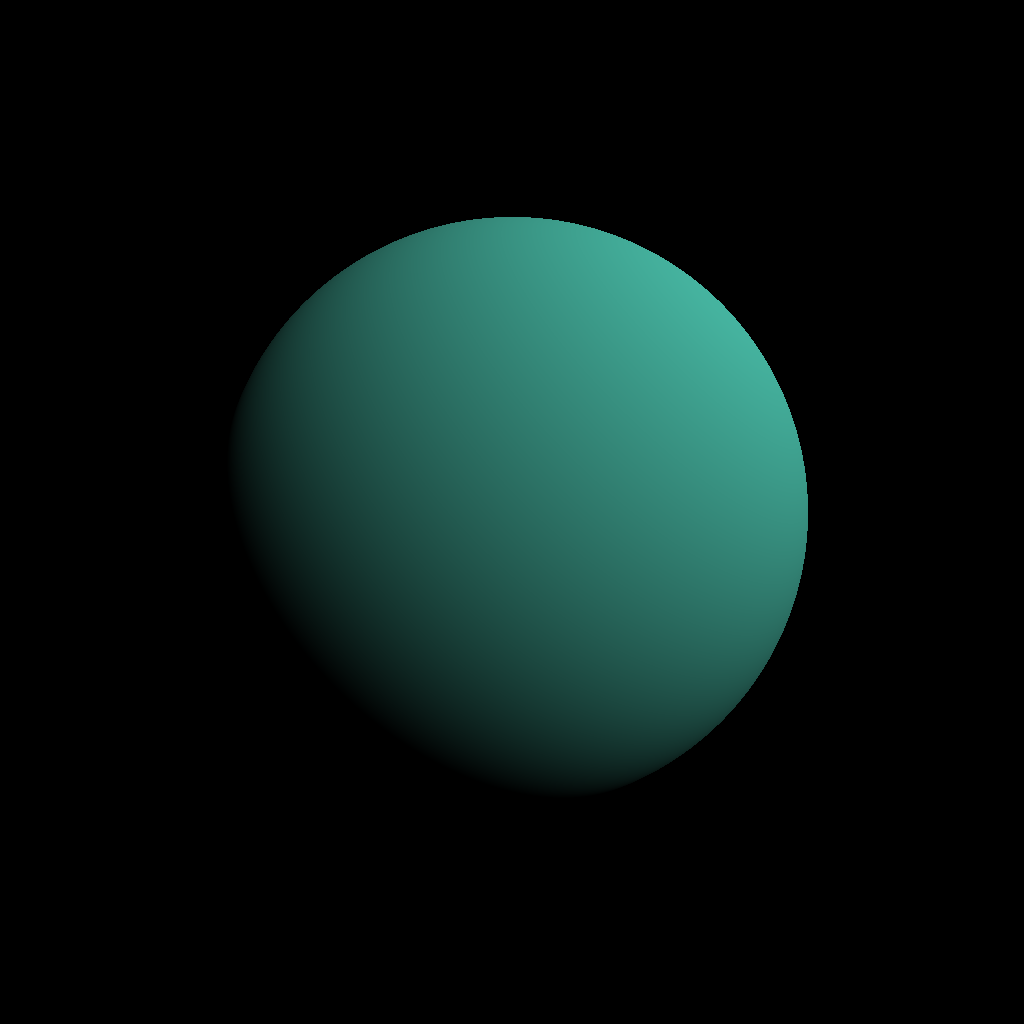
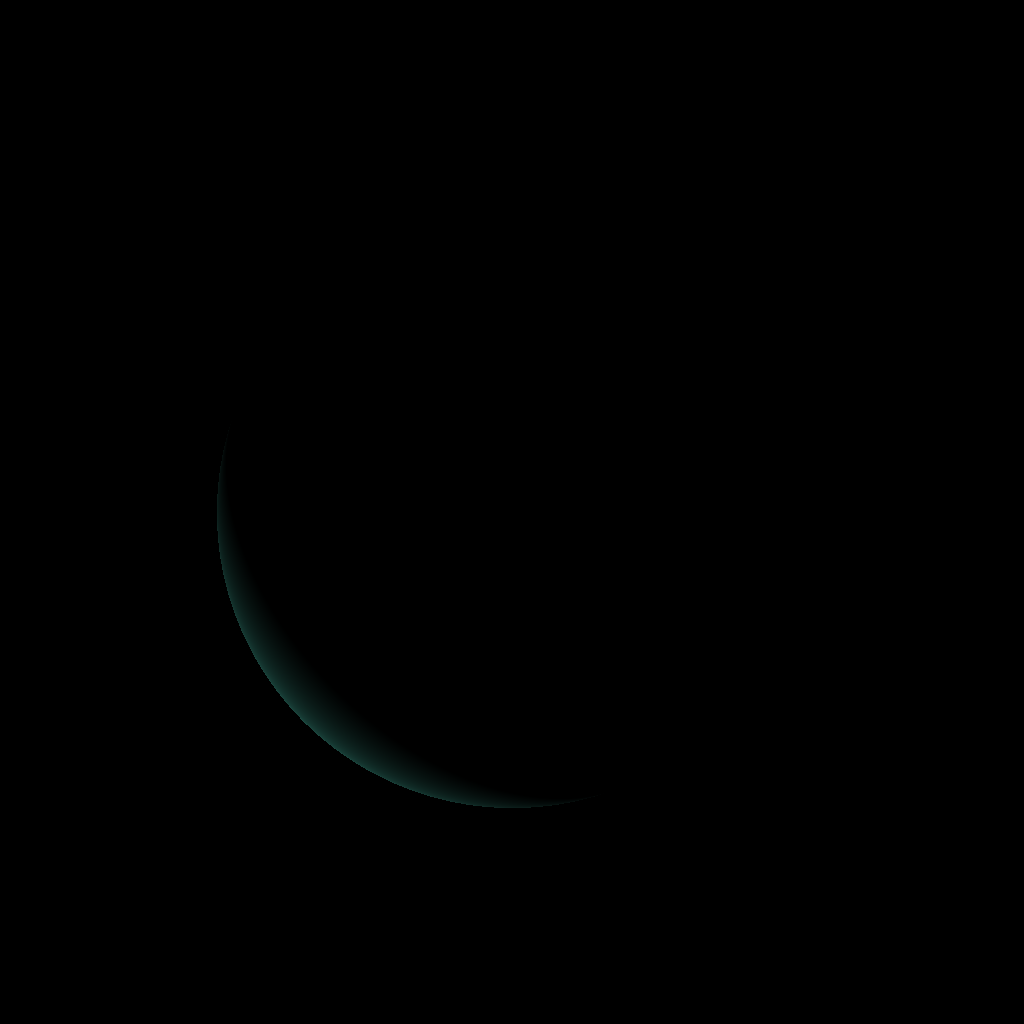
small fi

Changed region(s): [[0.2188, 0.1875, 0.8125, 0.7812], [0.25, 0.625, 0.4375, 0.7812], [0.4375, 0.7812, 0.4688, 0.8125]]

diff --git a/src/render.rs b/src/render.rs
@@ -59,9 +59,9 @@ impl Render
 		//	b = Ray Direction
 		//	r = Sphere radius
 		//	t = Hit Distance = Our Variable
-		let ray_origin : Vec3 = Vec3::new(0.0, 0.0, 2.0);
+		let ray_origin : Vec3 = Vec3::new(0.0, 0.0, 1.0);
 		let ray_direction : Vec3 = Vec3::new(coord[0], coord[1], -1.0);
-		let radius = 1.0;
+		let radius = 0.5;
 
 		//Viete formula
 		let a :f64 = ray_direction * ray_direction;
@@ -81,8 +81,8 @@ impl Render
 
 		let mut hit_point : Vec3 = ray_origin + ray_direction * solution;
 		let normalized_hp : Vec3 = hit_point.normalize();
-		let light_direction : Vec3 = Vec3::new(1.0, -1.0, -1.0).normalize();
 
+		let light_direction : Vec3 = Vec3::new(1.0, -1.0, -1.0).normalize();
 		let lighting : f64 = (normalized_hp * (-light_direction)).max(0.0);
 
 		let color: (u8, u8, u8, u8) = (70, 180, 160, 255);
